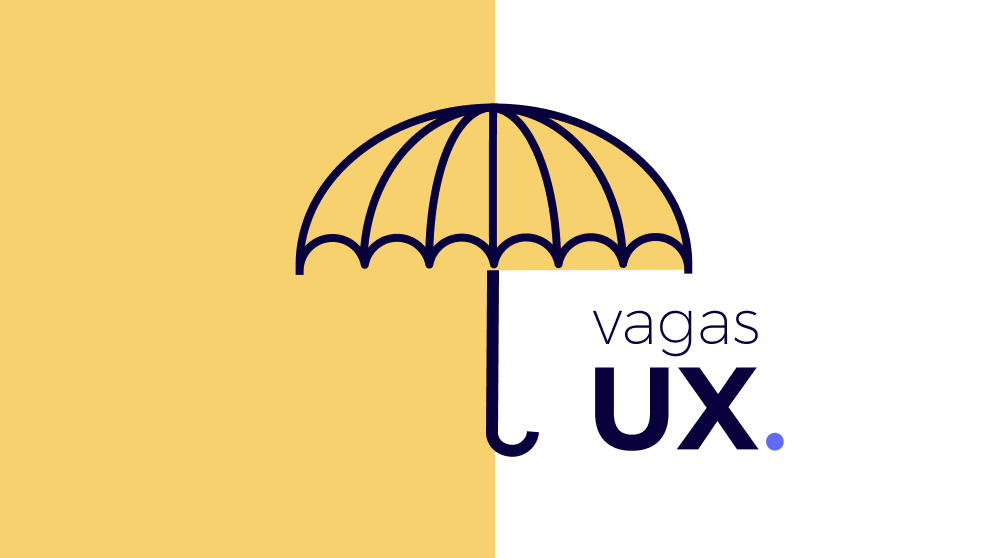
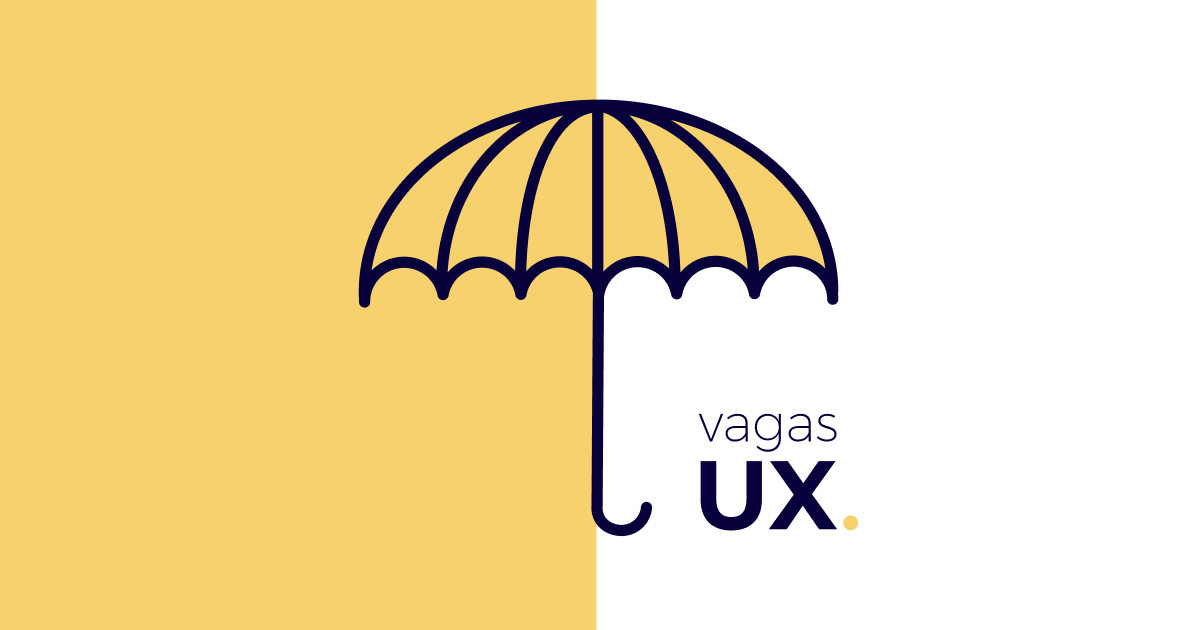
feat: replace OG covers with 1200x630 artwork
Use the updated social previews, add Guilda, and keep the publicar-vaga cover on disk for the future page.

Changed region(s): [[0.2801, 0.1523, 0.8092, 0.853]]

diff --git a/web/scripts/seo-catalog.test.ts b/web/scripts/seo-catalog.test.ts
@@ -1,5 +1,5 @@
 import assert from 'node:assert/strict'
-import { readFileSync } from 'node:fs'
+import { existsSync, readFileSync } from 'node:fs'
 import { dirname, join } from 'node:path'
 import { fileURLToPath } from 'node:url'
 import { describe, it } from 'node:test'
@@ -14,6 +14,7 @@ import {
   renderRobotsTxt,
   renderSitemapXml,
   renderVercelJson,
+  reservedOgImages,
   seoRedirects,
   seoRoutes,
 } from '../src/data/seoCatalog'
@@ -70,13 +71,29 @@ describe('seo catalog', () => {
     assert.equal(getSeoRoute('/guia/cursos')?.image, '/og/cursos.png')
     assert.equal(getSeoRoute('/parcerias')?.image, '/og/parcerias.png')
     assert.equal(getSeoRoute('/voluntariado')?.image, '/og/voluntariado.png')
-    assert.equal(getSeoRoute('/guilda')?.image, undefined)
+    assert.equal(getSeoRoute('/guilda')?.image, '/og/guilda.png')
     assert.equal(getSeoRoute('/guia/faq')?.image, undefined)
+    assert.equal(reservedOgImages.publicarVaga, '/og/publicar-vaga.png')
     assert.ok(
       getSeoRoute('/guia/trilhas/entender-o-basico')?.title.includes(
         'Entender o básico',
       ),
     )
+  })
+
+  it('keeps OG cover files for catalog routes and reserved pages', () => {
+    for (const entry of seoRoutes) {
+      if (!entry.image) continue
+      assert.ok(
+        entry.image.startsWith('/og/'),
+        `${entry.path} image should be a local /og asset`,
+      )
+      assert.ok(
+        existsSync(join(root, 'public', entry.image)),
+        `missing ${entry.image}`,
+      )
+    }
+    assert.ok(existsSync(join(root, 'public', reservedOgImages.publicarVaga)))
   })
 
   it('keeps prerender paths aligned with the sitemap', () => {

diff --git a/web/src/data/seoCatalog.ts b/web/src/data/seoCatalog.ts
@@ -13,7 +13,7 @@ import {
 
 export const SITE_ORIGIN = superSite.origin
 
-/** Super social covers copied into `web/public/og`. Not shown as page UI. */
+/** Social covers in `web/public/og`. Not shown as page UI. */
 const ogImages = {
   home: '/og/home.png',
   comunidade: '/og/comunidade.png',
@@ -24,6 +24,12 @@ const ogImages = {
   cursos: '/og/cursos.png',
   oportunidades: '/og/oportunidades.png',
   curadoria: '/og/vagas-para-iniciantes.png',
+  guilda: '/og/guilda.png',
+} as const
+
+/** Cover kept for a future in-app /publicar-vaga page. */
+export const reservedOgImages = {
+  publicarVaga: '/og/publicar-vaga.png',
 } as const
 
 export type SeoChangefreq =
@@ -124,7 +130,7 @@ const staticPages: SeoRoute[] = [
     routes.guilda,
     'VagasUX · Guilda do Vaguiner',
     'Comunidade exclusiva da VagasUX, com encontros, mentoria e acompanhamento para quem está construindo carreira em UX.',
-    { priority: 0.8 },
+    { priority: 0.8, image: ogImages.guilda },
   ),
   page(
     routes.voluntariado,
